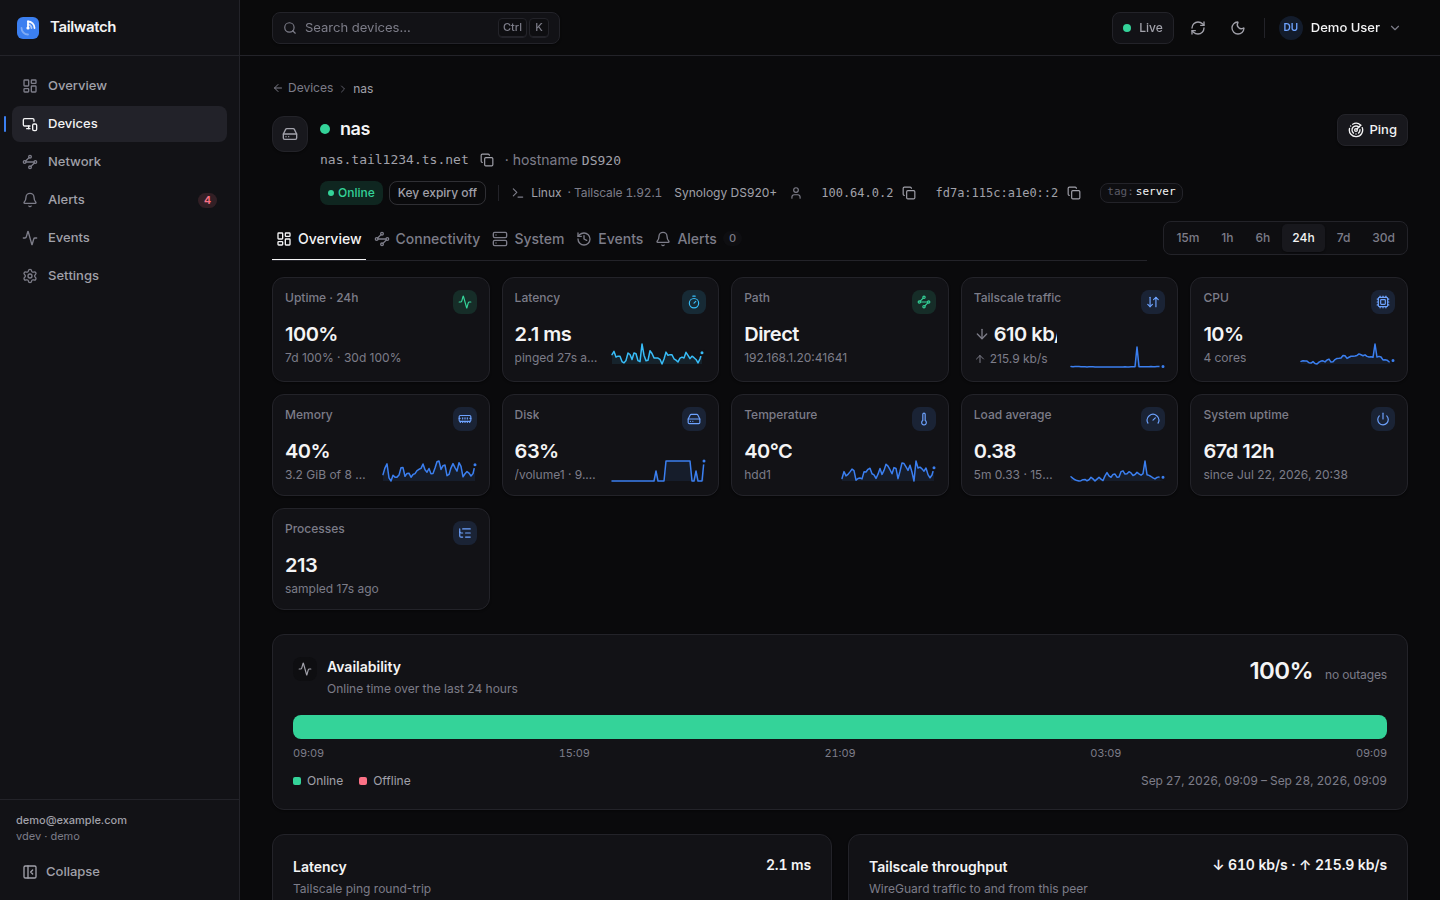
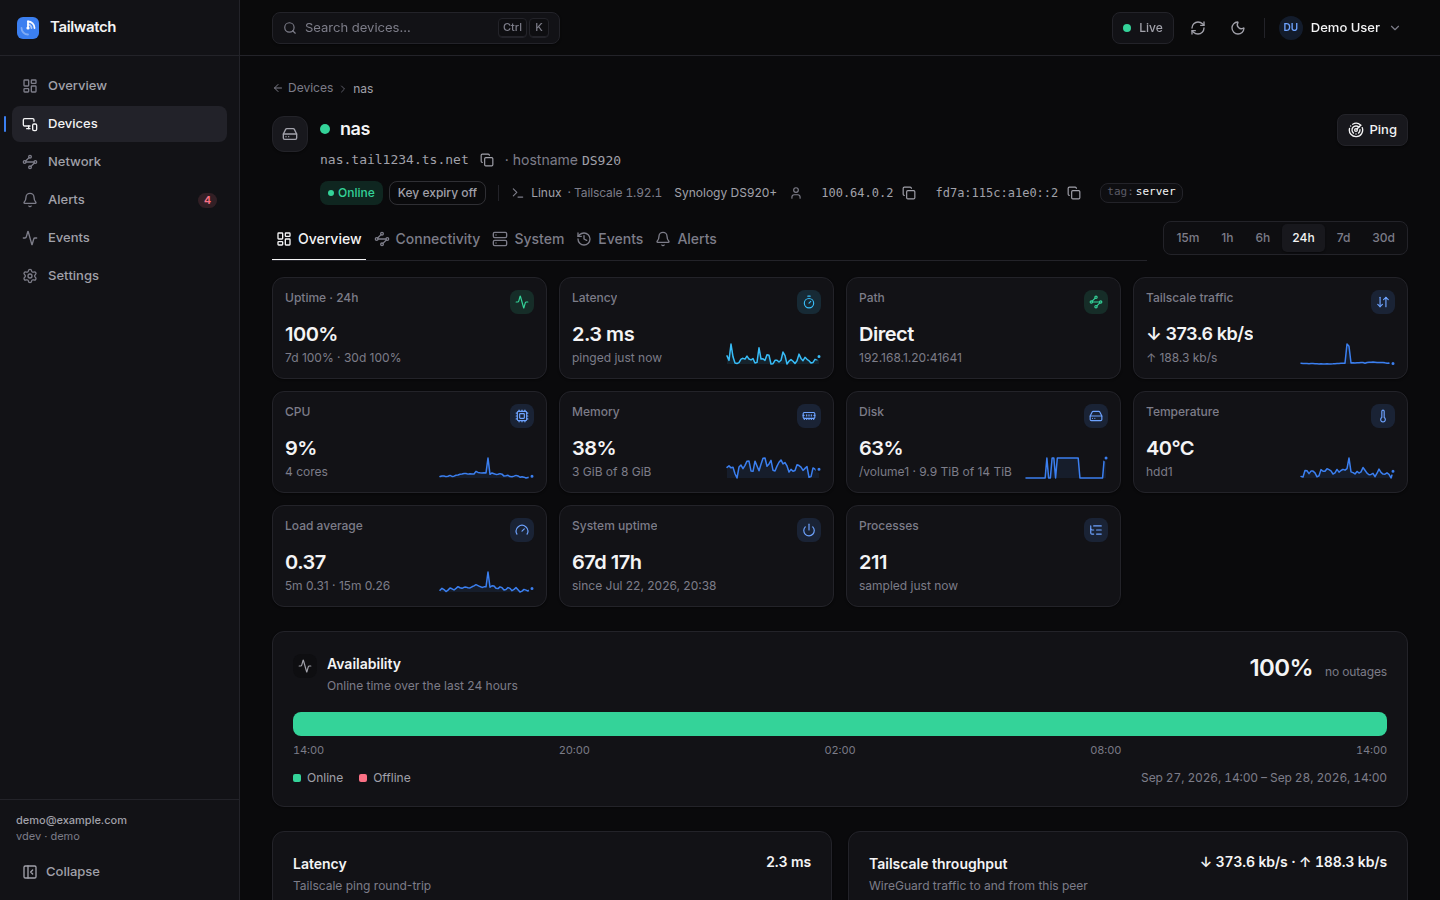
Finish UI review fixes and refresh screenshots
Complete the remaining web findings: device tab strip wraps the range
picker and scrolls with a fade on phones, a single toast per alert
acknowledgement, readable contrast for informational text, sidebar hub
footer hidden until known, plus verification tests for dialog focus
handling and stream-driven toasts. Document the Host-header check, SSE
caps and --allow-node matching, fix the stream auth test baseline, and
refresh the README screenshots from the final build.

Claude-Session: https://claude.ai/code/session_01UE4qdv9fFHTNbKH1d88CJx

diff --git a/web/src/api/sse.test.ts b/web/src/api/sse.test.ts
@@ -1,6 +1,7 @@
-import { describe, expect, it } from 'vitest'
+import { beforeEach, describe, expect, it, vi } from 'vitest'
 import { QueryClient } from '@tanstack/react-query'
-import { applyAlert, applyEvent, applyTick, eventMatches } from './sse'
+import { applyAlert, applyEvent, applyTick, eventMatches, markLocalAck, toastForAlert } from './sse'
+import { toast } from '../components/ui/Toast'
 import { queryKeys } from './queryKeys'
 import { createMockState, overview } from './mockData'
 import type { Alert, Device, DeviceDetail, Event } from './types'
@@ -73,5 +74,31 @@ describe('applyAlert', () => {
     expect(qc.getQueryData(queryKeys.rules)).toBe(rules)
     expect(qc.getQueryState(queryKeys.rules)?.isInvalidated).toBe(false)
     expect(qc.getQueryState(queryKeys.alerts({ state: 'open', limit: 200 }))?.isInvalidated).toBe(true)
+  })
+})
+
+vi.mock('../components/ui/Toast', () => ({ toast: Object.assign(vi.fn(), { success: vi.fn(), info: vi.fn(), warning: vi.fn(), error: vi.fn() }) }))
+
+describe('toastForAlert', () => {
+  const base = { id: 7, title: 'High CPU on x', severity: 'warning', state: 'open', message: 'm' } as Alert
+  beforeEach(() => vi.mocked(toast).mockClear())
+
+  it('skips the stream echo of an ack this client made, once', () => {
+    markLocalAck(7)
+    toastForAlert({ ...base, ackedAt: '2026-09-28T12:00:00Z', ackedBy: 'me' })
+    expect(toast).not.toHaveBeenCalled()
+    // A later ack of the same alert (e.g. by someone else after a re-open) is shown again.
+    toastForAlert({ ...base, ackedAt: '2026-09-28T12:05:00Z', ackedBy: 'them' })
+    expect(toast).toHaveBeenCalledTimes(1)
+    expect(vi.mocked(toast).mock.calls[0]![0]).toMatchObject({ id: 'alert-7', tone: 'info', title: 'Acknowledged: High CPU on x', description: 'by them' })
+  })
+
+  it('toasts acks made elsewhere and resolutions, keyed per alert', () => {
+    toastForAlert({ ...base, ackedAt: '2026-09-28T12:00:00Z', ackedBy: 'bob' })
+    toastForAlert({ ...base, state: 'resolved', resolvedAt: '2026-09-28T12:01:00Z' })
+    expect(vi.mocked(toast).mock.calls.map((c) => c[0])).toMatchObject([
+      { id: 'alert-7', tone: 'info' },
+      { id: 'alert-7', tone: 'success', title: 'Resolved: High CPU on x' },
+    ])
   })
 })

diff --git a/web/src/api/sse.ts b/web/src/api/sse.ts
@@ -94,11 +94,30 @@ function toastForEvent(e: Event) {
   toast({ id: `event-${e.id}`, tone: e.severity === 'critical' ? 'error' : 'warning', title: e.title, description: e.message })
 }
 
-/** Toast ids are `alert-<id>`; the ack mutations use the same id so the actor sees one toast, not two. */
-function toastForAlert(a: Alert) {
+// Alerts this client acknowledged itself (id → deadline). The ack mutation
+// raises its own confirmation toast, so the stream's "Acknowledged: …" for the
+// same alert is dropped instead of stacking a second toast for one action.
+const localAcks = new Map<number, number>()
+const LOCAL_ACK_TTL_MS = 15_000
+
+/** Record that this client is acknowledging `id` (called by `useAckAlert` before the request). */
+export function markLocalAck(id: number): void {
+  localAcks.set(id, Date.now() + LOCAL_ACK_TTL_MS)
+}
+
+function consumeLocalAck(id: number): boolean {
+  const until = localAcks.get(id)
+  if (until === undefined) return false
+  localAcks.delete(id)
+  return until > Date.now()
+}
+
+/** Toast for an alert from the stream. Ids are `alert-<id>`, so a later change to the same alert replaces the toast. Exported for tests. */
+export function toastForAlert(a: Alert): void {
   if (a.state === 'resolved') {
     toast({ id: `alert-${a.id}`, tone: 'success', title: `Resolved: ${a.title}`, description: a.deviceName })
   } else if (a.ackedAt) {
+    if (consumeLocalAck(a.id)) return
     toast({ id: `alert-${a.id}`, tone: 'info', title: `Acknowledged: ${a.title}`, description: a.ackedBy ? `by ${a.ackedBy}` : undefined })
   } else {
     toast({ id: `alert-${a.id}`, tone: a.severity === 'critical' ? 'error' : a.severity === 'warning' ? 'warning' : 'info', title: a.title, description: a.message })

diff --git a/web/src/pages/DeviceDetailPage.tsx b/web/src/pages/DeviceDetailPage.tsx
@@ -156,8 +156,10 @@ export default function DeviceDetailPage() {
         compact
       >
         <div className="flex flex-wrap items-end justify-between gap-x-4 gap-y-2">
-          {/* No flex-1/min-w-0 here: the strip keeps its intrinsic width so the picker wraps below it instead of squeezing the tabs. */}
-          <Tabs tabs={tabs} value={tab} onValueChange={setTab} aria-label="Device sections" idPrefix="device-tab" />
+          {/* flex-auto (not flex-1): the strip's basis is its intrinsic width, so the picker wraps below it instead of
+              squeezing the tabs, while the underline still spans the line when both fit. Narrower than the strip itself
+              (phones) it scrolls, with a fade on the clipped edge. */}
+          <Tabs tabs={tabs} value={tab} onValueChange={setTab} aria-label="Device sections" idPrefix="device-tab" className="min-w-0 flex-auto" />
           {tab === 'overview' ? (
             <div className="pb-1.5">
               <TimeRangePicker value={range} onValueChange={setRange} options={RANGE_OPTIONS} aria-label="Chart time range" />

diff --git a/web/src/api/hooks.ts b/web/src/api/hooks.ts
@@ -7,6 +7,7 @@
 import { keepPreviousData, useMutation, useQuery, useQueryClient, type UseQueryOptions } from '@tanstack/react-query'
 import { apiDelete, apiGet, apiPost, apiPut, seg } from './client'
 import { queryKeys, type AlertsParams, type EventsParams } from './queryKeys'
+import { markLocalAck } from './sse'
 import type {
   Alert,
   AlertRule,
@@ -275,6 +276,8 @@ export function useAckAlert() {
   const qc = useQueryClient()
   return useMutation<Alert, Error, number>({
     mutationFn: (id) => apiPost<Alert>(`/alerts/${seg(id)}/ack`),
+    // The stream echoes the ack (possibly before this response); the caller's own toast is the only one wanted.
+    onMutate: (id) => markLocalAck(id),
     onSuccess: (a) => {
       qc.setQueriesData<Alert[]>({ queryKey: queryKeys.alertsAll }, (list) => (Array.isArray(list) ? list.map((x) => (x.id === a.id ? a : x)) : list))
       if (a.deviceId) {

diff --git a/web/src/components/layout/Sidebar.tsx b/web/src/components/layout/Sidebar.tsx
@@ -87,13 +87,14 @@ function HubFooter({ collapsed }: { collapsed: boolean }) {
   // slow, the overview (already fetched by every page) carries the same HubInfo.
   const overview = useOverview()
   const hub = streamHub ?? overview.data?.hub ?? null
-  if (collapsed) return null
+  // Nothing (rather than '—' / 'v—') until either source has delivered it.
+  if (collapsed || !hub) return null
   return (
     <div className="px-4 pb-3 text-[11px] leading-4 text-fg-muted">
-      <p className="truncate font-medium text-fg-secondary">{hub?.tailnet ?? '—'}</p>
+      <p className="truncate font-medium text-fg-secondary">{hub.tailnet}</p>
       <p className="truncate">
-        v{hub?.version ?? '—'}
-        {hub?.demoMode ? ' · demo' : ''}
+        v{hub.version}
+        {hub.demoMode ? ' · demo' : ''}
       </p>
     </div>
   )

diff --git a/web/src/components/device/ConnectivityTab.tsx b/web/src/components/device/ConnectivityTab.tsx
@@ -201,7 +201,7 @@ export function ConnectivityTab({ device, canManage, onApproveRoutes }: Connecti
                 <span className="min-w-0">
                   <span className="flex items-center gap-2 text-[13px] text-fg">
                     {r.label}
-                    <span className={cn('text-xs', good === null ? 'text-fg-faint' : good ? 'text-online' : 'text-warning')}>
+                    <span className={cn('text-xs', good === null ? 'text-fg-muted' : good ? 'text-online' : 'text-warning')}>
                       {r.supported === null ? 'unknown' : r.supported ? (r.goodWhenTrue ? 'supported' : 'yes') : r.goodWhenTrue ? 'unsupported' : 'no'}
                     </span>
                   </span>

diff --git a/web/src/components/alerts/AlertRow.tsx b/web/src/components/alerts/AlertRow.tsx
@@ -89,7 +89,7 @@ export function AlertRow({ alert: a, isAdmin, acking, onAck, now }: AlertRowProp
               {a.deviceName}
             </Link>
           ) : null}
-          <span className="hidden text-fg-faint sm:inline">{meta.label}</span>
+          <span className="hidden text-fg-muted sm:inline">{meta.label}</span>
           <Time label="opened" ts={a.openedAt} now={now} />
           {open && a.updatedAt !== a.openedAt ? <Time label="updated" ts={a.updatedAt} now={now} /> : null}
           {a.resolvedAt ? <Time label="resolved" ts={a.resolvedAt} now={now} /> : null}

diff --git a/web/src/components/ui/ErrorState.tsx b/web/src/components/ui/ErrorState.tsx
@@ -47,7 +47,7 @@ export function ErrorState({ error, title, description, onRetry, retrying, compa
         <p className="text-base font-semibold text-fg">{heading}</p>
         {detail ? <p className="mt-1 text-sm leading-6 text-fg-muted break-words">{detail}</p> : null}
         {isApiError(error) && error.status ? (
-          <p className="mt-2 font-mono text-[11px] text-fg-faint">
+          <p className="mt-2 font-mono text-[11px] text-fg-muted">
             {error.code} · HTTP {error.status}
           </p>
         ) : null}

diff --git a/web/src/lib/useScrollFade.ts b/web/src/lib/useScrollFade.ts
@@ -1,6 +1,6 @@
 import { useEffect, useState, type CSSProperties, type RefObject } from 'react'
 
-const FADE = 28
+const FADE = 40
 
 /**
  * Horizontal scroll affordance for `overflow-x-auto` strips that hide their
